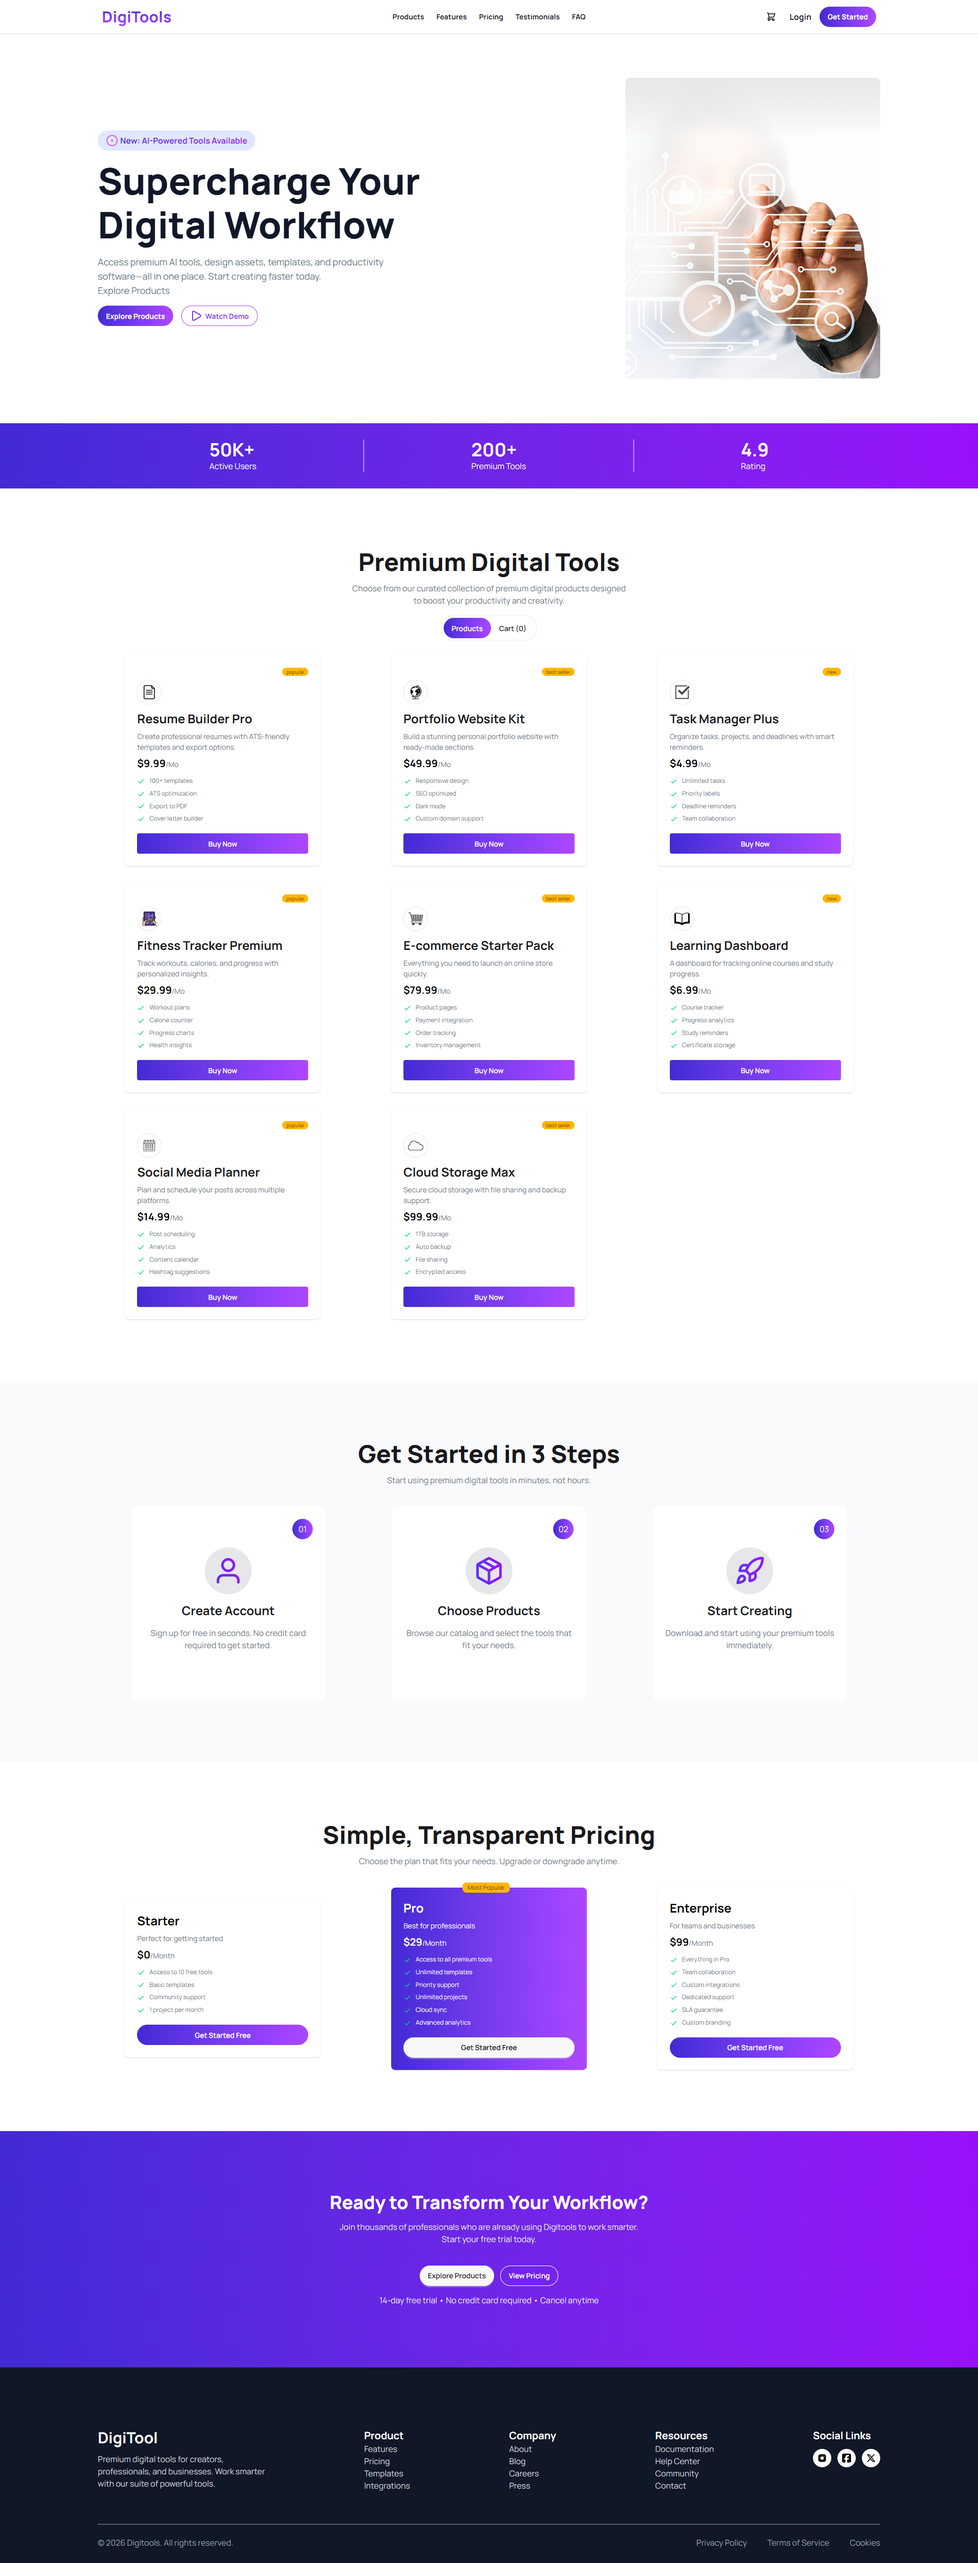
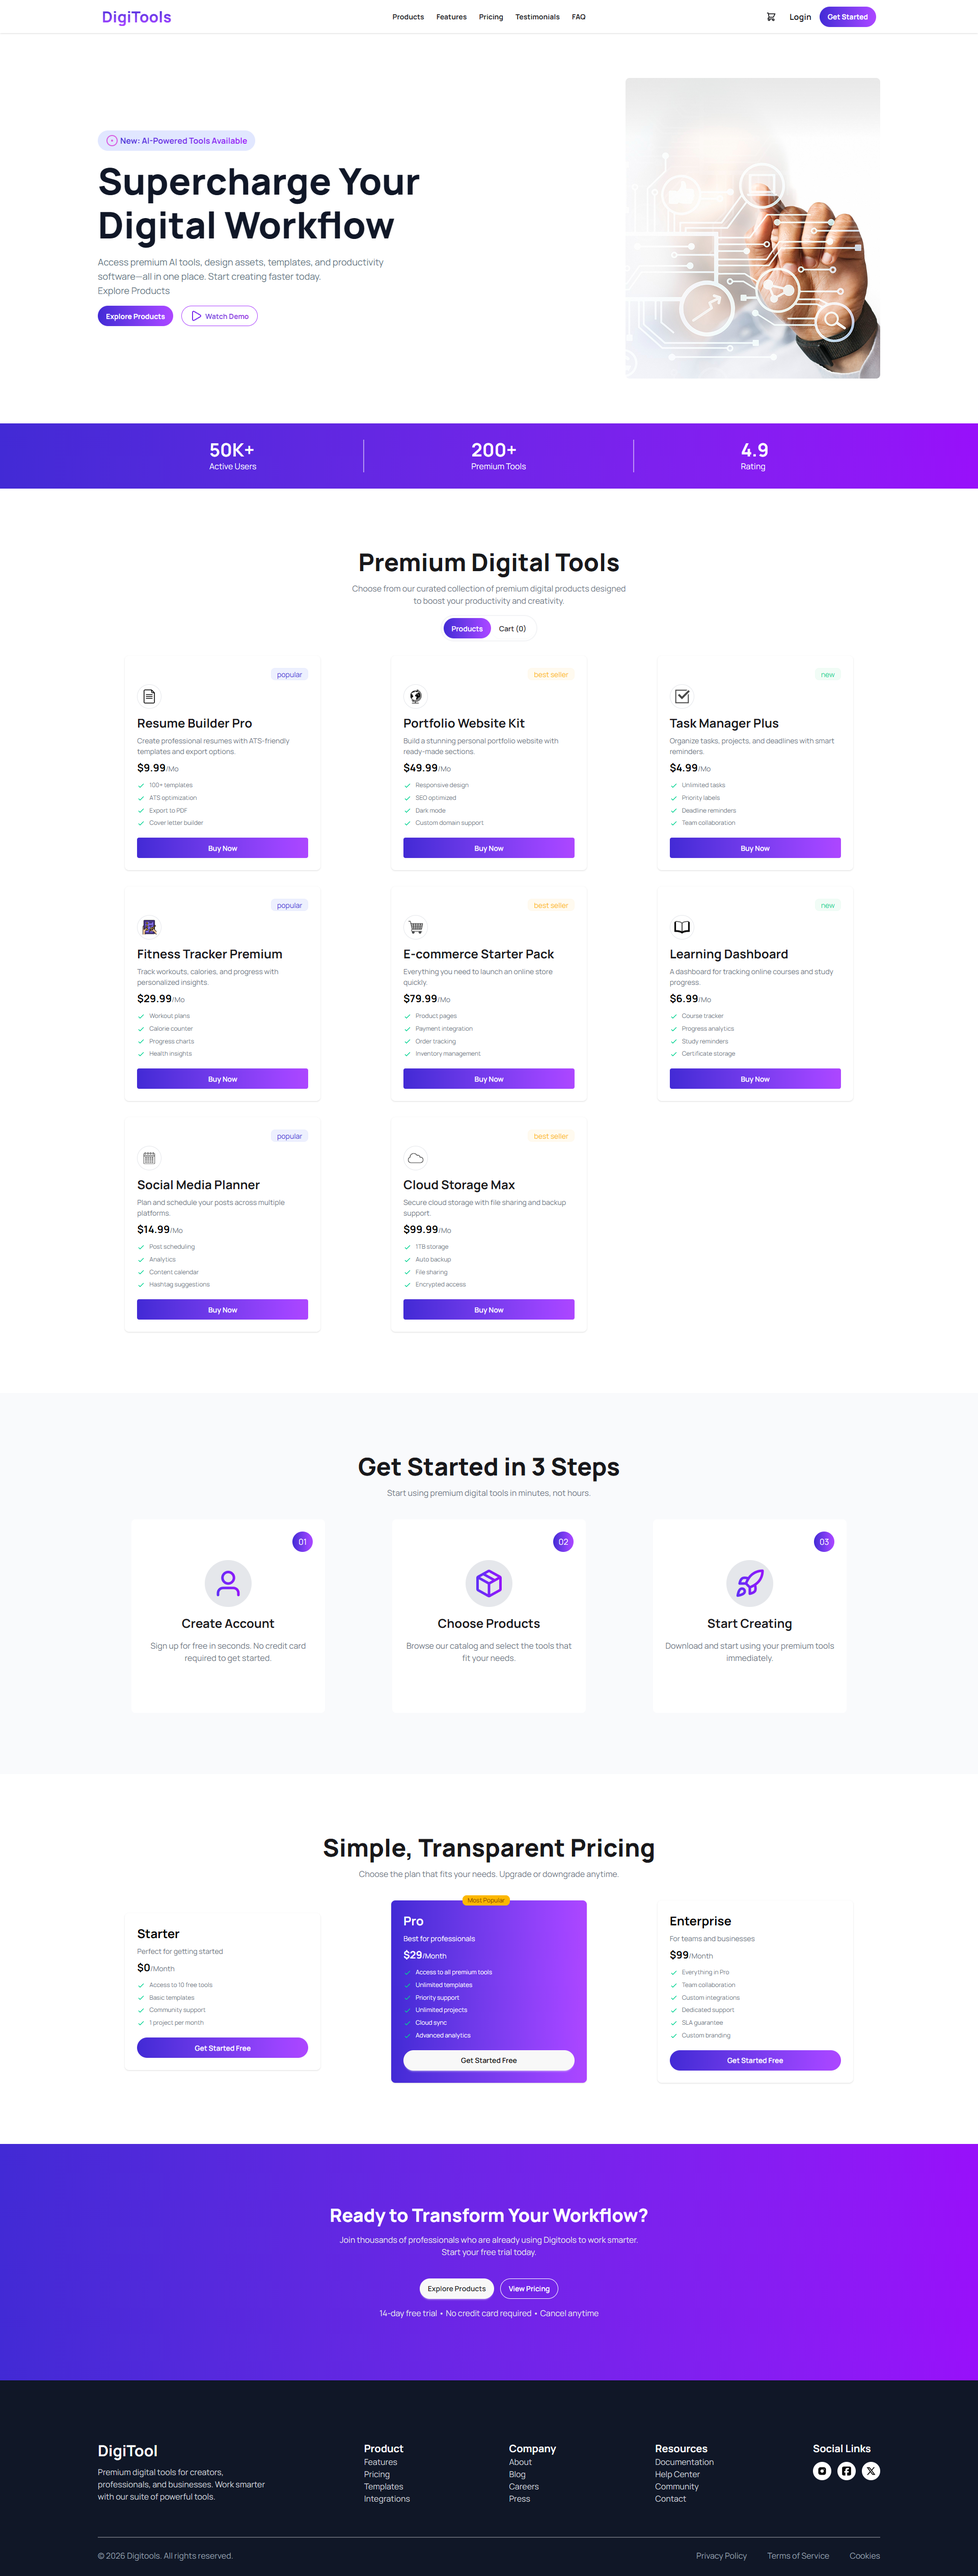
fixed badge background

diff --git a/src/components/cardSection/Cards.jsx b/src/components/cardSection/Cards.jsx
@@ -17,7 +17,15 @@ const Cards = ({cardInfo,carts, setCarts}) => {
         <div className="card w-96 bg-base-100 shadow-sm">
             <div className="card-body">
                 <div className='flex justify-end rounded-full'>
-                    <span className="badge badge-xs badge-warning">{cardInfo.tag}</span>
+                    <span className={`badge badge-soft 
+                        ${
+                            cardInfo.tag.toLowerCase() === "popular"?'badge-primary':
+                            cardInfo.tag.toLowerCase() === "best seller"?'badge-warning':
+                            cardInfo.tag.toLowerCase() === "new"?'badge-success':'' 
+                        }
+                        `}>
+                        {cardInfo.tag}
+                        </span>
                 </div>
                 <div>
                     <div className='h-12 w-12 flex items-center mb-3 border border-gray-200 rounded-full p-2'>

diff --git a/README.md b/README.md
@@ -46,7 +46,7 @@ The app includes checkout interaction with success and error toast notifications
 
 ![DigiTools Cart Flow](./src/assets/products/demo-preview.png)
 
-> Replace these preview file paths with your actual screenshot and GIF files.
+> Replace these preview file paths with your actual screenshot .
 
 ## Run Locally
 
